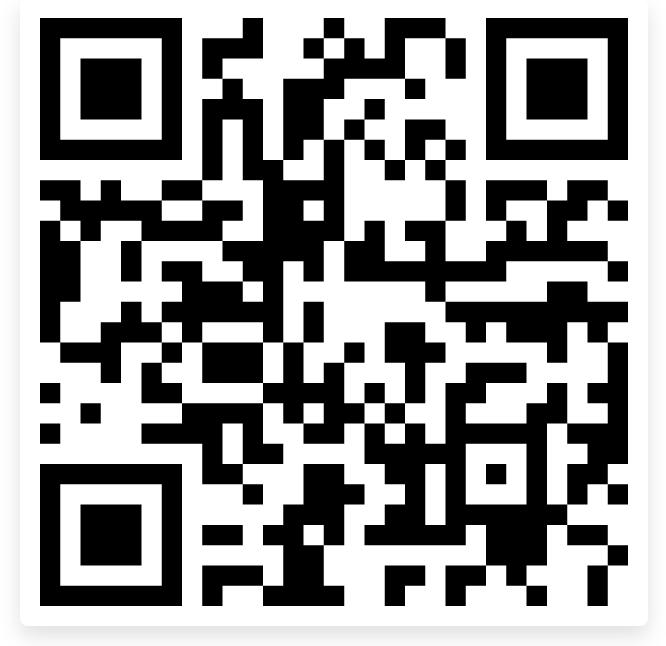
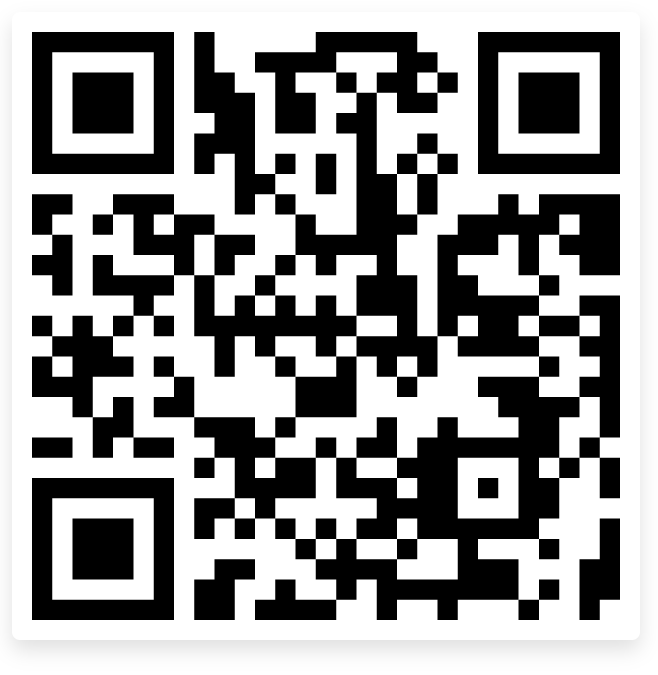
update WHRDL links

diff --git a/src/Components/WHRDL/WHRDL.js b/src/Components/WHRDL/WHRDL.js
@@ -10,13 +10,13 @@ function WHRDL() {
                 <ul className='WHRDL-list'>
                     <li>
                         <h3>Use iOS Simulator</h3>
-                        <Link className='card link' id='ios-card' to={{ pathname: "https://appetize.io/embed/8bnmakzrptf1hv9dq7v7bnteem?autoplay=true&debug=true&device=iphone12&embed=true&scale=73&screenOnly=false&xDocMsg=true&xdocMsg=true&params=%7B%22EXDevMenuDisableAutoLaunch%22%3Atrue%2C%22EXKernelLaunchUrlDefaultsKey%22%3A%22exp%3A%2F%2Fexp.host%2F%40sds-smith%2F037c0d%2Bm6KCUybkh2%22%2C%22EXKernelDisableNuxDefaultsKey%22%3Atrue%7D&osVersion=14.5" }} target="_blank" >
+                        <Link className='card link' id='ios-card' to={{ pathname: "https://appetize.io/embed/8bnmakzrptf1hv9dq7v7bnteem?autoplay=true&debug=true&device=iphone12&embed=true&scale=73&screenOnly=false&xDocMsg=true&xdocMsg=true&params=%7B%22EXDevMenuDisableAutoLaunch%22%3Atrue%2C%22EXKernelLaunchUrlDefaultsKey%22%3A%22exp%3A%2F%2Fexp.host%2F%40sds-smith%2Fbaad67%2BVSlh7wof24%22%2C%22EXKernelDisableNuxDefaultsKey%22%3Atrue%7D&osVersion=14.5" }} target="_blank" >
                         </Link>
                         <p className='description'>Click phone to run Simulator in your Browser</p>
                     </li><br/>   
                     <li>
                         <h3>Use Android Simulator</h3>
-                        <Link className='card link' id='android-card' to={{ pathname: "https://appetize.io/embed/xc1w6f1krd589zhp22a0mgftyw?autoplay=true&debug=true&device=pixel4&embed=true&launchUrl=exp%3A%2F%2Fexp.host%2F%40sds-smith%2F037c0d%2Bm6KCUybkh2&scale=81&screenOnly=false&xDocMsg=true&xdocMsg=true&params=%7B%22EXDevMenuDisableAutoLaunch%22%3Atrue%2C%22EXKernelLaunchUrlDefaultsKey%22%3A%22exp%3A%2F%2Fexp.host%2F%40sds-smith%2F037c0d%2Bm6KCUybkh2%22%2C%22EXKernelDisableNuxDefaultsKey%22%3Atrue%7D&osVersion=11.0" }} target="_blank">
+                        <Link className='card link' id='android-card' to={{ pathname: "https://appetize.io/embed/xc1w6f1krd589zhp22a0mgftyw?autoplay=true&debug=true&device=pixel4&embed=true&launchUrl=exp%3A%2F%2Fexp.host%2F%40sds-smith%2Fbaad67%2BVSlh7wof24&scale=81&screenOnly=false&xDocMsg=true&xdocMsg=true&params=%7B%22EXDevMenuDisableAutoLaunch%22%3Atrue%2C%22EXKernelLaunchUrlDefaultsKey%22%3A%22exp%3A%2F%2Fexp.host%2F%40sds-smith%2Fbaad67%2BVSlh7wof24%22%2C%22EXKernelDisableNuxDefaultsKey%22%3Atrue%7D&osVersion=11.0" }} target="_blank">
                         </Link>
                          <p className='description'>Click phone to run Simulator in your Browser</p>
                     </li> 
